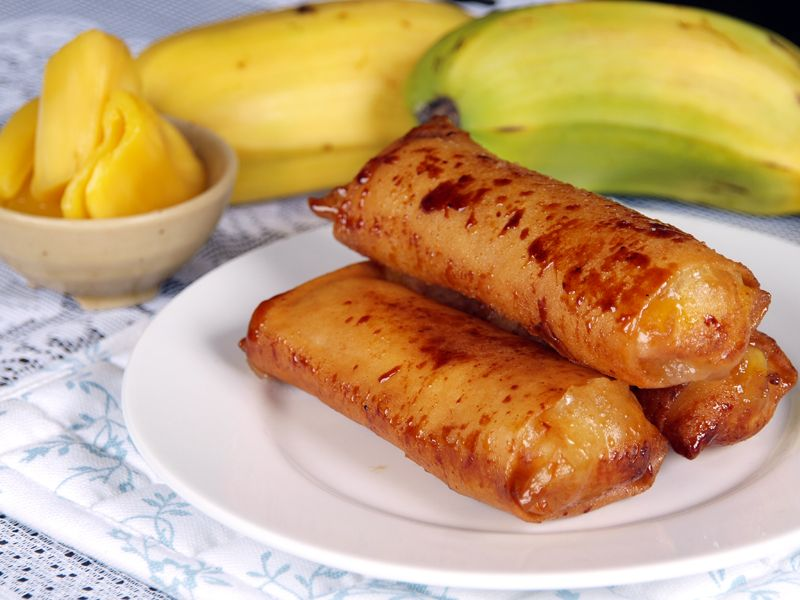
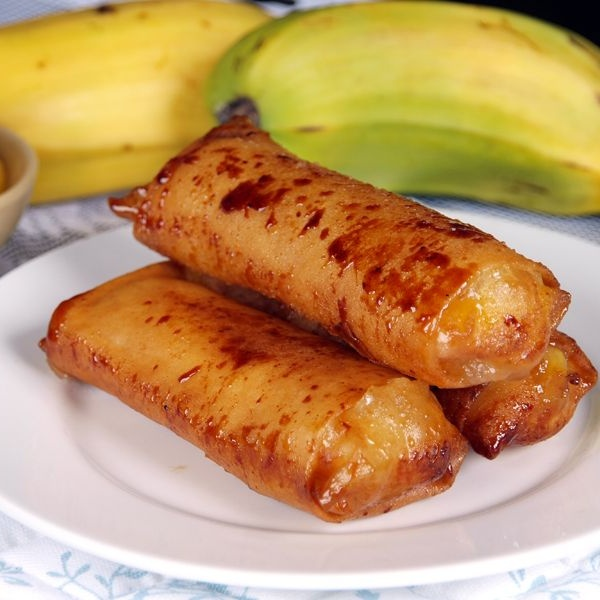
crop and edit images and use flexbox to rearrange the menu

diff --git a/index.html b/index.html
@@ -8,21 +8,20 @@
         </title>
     </head>
     <body>
-        <div>
-            <h1>Odin Recipes</h1>
+        <div class='menu-container'>
+            <div class='menu'>
+                <div class='logo'>
+                    <img src="./img/odin-logo.png" class="logo">
+                </div>
+                <div class='title'>Odin Recipes</div>
+                <div class='recipes'>All Recipes</div>
+            </div>
         </div>
-        <div>
-            <img src="./img/chef.gif">
-        </div>
-        <div>
             <h2>Filipino Dishes</h2>
-        </div>
-        <div>   
             <ul>
-                <li><a href="./recipes/chicken-adobo.html">Chicken Adobo</a></li>
-                <li><a href="./recipes/sinigang-na-hipon.html">Sinigang na Hipon</a></li>
-                <li><a href="./recipes/turon.html">Turon</a></li>
+                <li class="first"><a href="./recipes/chicken-adobo.html">Chicken Adobo</a></li>
+                <li class="second"><a href="./recipes/sinigang-na-hipon.html">Sinigang na Hipon</a></li>
+                <li class="third"><a href="./recipes/turon.html">Turon</a></li>
              </ul>
-        </div>
     </body>
 </html>

diff --git a/styles.css b/styles.css
@@ -1,14 +1,38 @@
 * {
-    text-align: center;
-    background-color: bisque;
-    font-family: Verdana, Geneva, Tahoma, sans-serif;
-}
+    margin: 0;
+    padding: 0;
+    box-sizing: border-box;
+  }
 
-img {
-    max-width: 60%;
-    height: auto;
-}
+.menu-container {
+    color: darkslategrey;
+    background-color: white;
+    padding: 20px 0;
+    display: flex;
+    justify-content: center;
+    font-weight: bold;
+  }
+  
+.menu {
+    width: 100%;
+    display: flex;
+    justify-content: space-between;
+    margin: 0 20px;
+  }
 
-div {
-    background-color: beige;
-}
+.logo {
+    max-height: auto;
+    max-width: 100px;
+  }
+  
+.recipes {
+    font-size: 20px;
+    margin: auto 0;
+  }
+
+.title {
+    font-size: 50px;
+    margin-right: auto;
+    margin-left: 20px;
+    padding: 25px 0;
+  }
